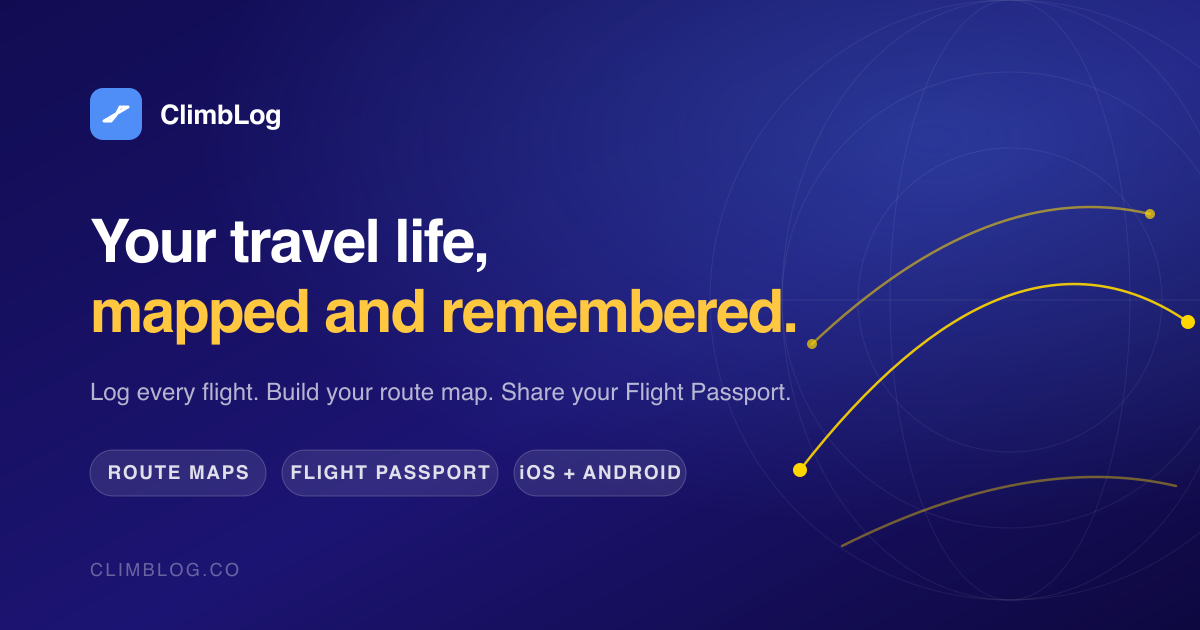
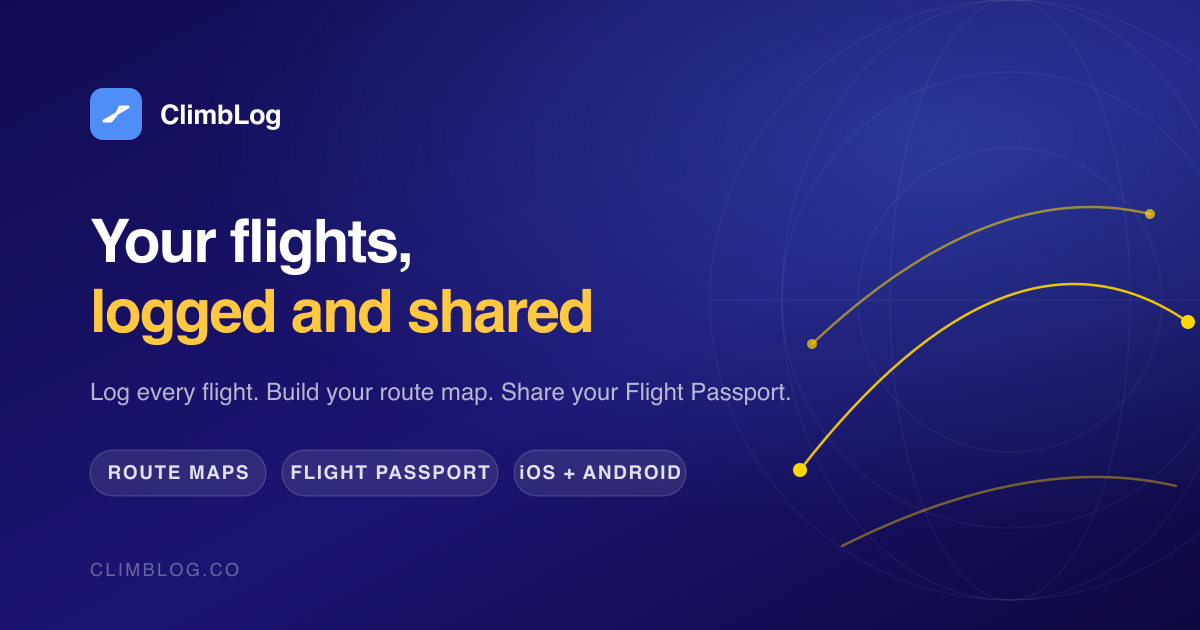
Retagline the homepage: your flights, logged and shared
Replaces the hero headline and lede with shorter copy, and trims the beta note
to a single line.

The old tagline also lived in the page title, og:title, twitter:title, the
404.html description, and the OG card artwork, so all five move together;
og.png was re-rendered from og.svg. Leaving them would have meant a shared
link previewing a tagline the page no longer uses.

Changed region(s): [[0.0617, 0.3317, 0.6783, 0.573]]

diff --git a/index.html b/index.html
@@ -4,7 +4,7 @@
   <meta charset="UTF-8" />
   <meta name="viewport" content="width=device-width, initial-scale=1.0" />
 
-  <title>ClimbLog — Your travel life, mapped and remembered</title>
+  <title>ClimbLog — Your flights, logged and shared</title>
   <meta name="description" content="ClimbLog is the personal flight log with friends built in. Log every flight, build your route map, follow where friends are flying next, and share your Flight Passport. iOS and Android." />
   <link rel="canonical" href="https://climblog.co/" />
   <meta name="theme-color" content="#242434" />
@@ -12,13 +12,13 @@
   <meta property="og:type" content="website" />
   <meta property="og:site_name" content="ClimbLog" />
   <meta property="og:url" content="https://climblog.co/" />
-  <meta property="og:title" content="ClimbLog — Your travel life, mapped and remembered" />
+  <meta property="og:title" content="ClimbLog — Your flights, logged and shared" />
   <meta property="og:description" content="Log every flight, map every route, and see where your friends are flying next." />
   <meta property="og:image" content="https://climblog.co/assets/img/og.png" />
   <meta property="og:image:width" content="1200" />
   <meta property="og:image:height" content="630" />
   <meta name="twitter:card" content="summary_large_image" />
-  <meta name="twitter:title" content="ClimbLog — Your travel life, mapped and remembered" />
+  <meta name="twitter:title" content="ClimbLog — Your flights, logged and shared" />
   <meta name="twitter:description" content="Log every flight, map every route, and see where your friends are flying next." />
   <meta name="twitter:image" content="https://climblog.co/assets/img/og.png" />
 
@@ -457,8 +457,8 @@
     <div class="container">
       <div>
         <p class="hero-badge">Log - Map - Share</p>
-        <h1>Your travel life,<br /><em>mapped and remembered</em></h1>
-        <p class="lede">ClimbLog keeps every flight you have ever taken in one place, draws them on a map, and shows you where your friends are flying next. Most flight apps track a single trip. ClimbLog tracks a travel life, and the people you share it with.</p>
+        <h1>Your flights,<br /><em>logged and shared</em></h1>
+        <p class="lede">See all your flights in one place. Share your flight history with friends and see where they're headed next.</p>
 
         <div class="btn-row">
           <a class="btn btn-primary store-btn" data-store="ios" data-store-label="Download on the">
@@ -471,7 +471,7 @@
           </a>
         </div>
 
-        <p class="hero-note">Not in the stores yet - <a href="/beta.html">join the beta</a> and fly with it early.</p>
+        <p class="hero-note"><a href="/beta.html">Join the beta</a> and fly with us early.</p>
       </div>
 
       <!-- CSS device mockup. Replace with a real capture when store assets are ready. -->

diff --git a/404.html b/404.html
@@ -6,7 +6,7 @@
   <meta name="robots" content="noindex" />
 
   <title>ClimbLog</title>
-  <meta name="description" content="ClimbLog - your travel life, mapped and remembered." />
+  <meta name="description" content="ClimbLog - your flights, logged and shared." />
   <meta name="theme-color" content="#110C52" />
 
   <!-- This page also serves every /u/{username} friend invite, so the social

diff --git a/PROGRESS.md b/PROGRESS.md
@@ -102,6 +102,13 @@ your account in the app, not deleting the app. A reported desktop gap between
 the nav links and the theme toggle did not reproduce - measured a constant 20px
 at seven widths from 700 to 1440px; it was a stale cache.
 
+**Tagline changed** to "Your flights, logged and shared" (was "Your travel
+life, mapped and remembered"). Hero headline, lede, and beta note rewritten to
+match, and the tagline was chased into the four places it also lived: the
+homepage `<title>`, `og:title`, `twitter:title`, the `404.html` description, and
+`og.svg` - which was re-rendered to `og.png` with the documented
+`rsvg-convert -w 1200 -h 630` command so shared links do not preview stale copy.
+
 **Verified** at 390px and desktop width, light and dark, no console errors, no
 horizontal overflow, theme toggle still switches and persists.
 
